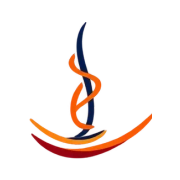
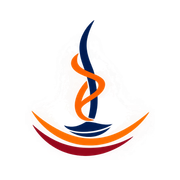
Use the supplied flame for every app mark
I had rejected the file the user sent and cut a flame out of the Sangam
lockup instead, on the grounds that the supplied one carried background-
removal residue. That was wrong. What looked like a halo was its
semi-transparent edge showing against the black the preview rendered it on;
measured, 99.1% of its opaque pixels are fully saturated artwork.

It also matters which one is used. The lockup's flame is thin line art drawn
to sit beside a wordmark at about 60px tall. Isolated in a square icon its
strokes read as an abstract squiggle — a "Y" with an underline, which is
exactly what showed up in the install prompt. The supplied flame is a bolder
drawing and holds its shape as a lamp at 48px, which is the size that
decides whether an app icon works.

So all fourteen derived files are regenerated from it: 9 launch screens, the
three manifest icons, the favicon and the apple touch icon. Checked by
rendering the result down to 48, 72 and 96px and applying the circle crop
Android may use, rather than trusting the fractions.

The matte is still cleaned before use, but only where it cannot touch the
drawing: a pixel is cleared when it is both nearly transparent and
unsaturated, which the artwork's own antialiased edges never are. That keeps
it safe on a dark ground as well as the white it sits on here.

iitm-crest.webp goes — it was an alternative I rendered while working out why
the icon was unreadable, and it is not the one chosen. flame.webp stays as
[…]

Changed region(s): [[0.1667, 0.1111, 0.8611, 0.8889]]

diff --git a/public/sw.js b/public/sw.js
@@ -10,7 +10,7 @@
  *
  * v2 caches static files only, and never stands between the app and a page.
  */
-const CACHE_VERSION = "sangam-v10";
+const CACHE_VERSION = "sangam-v11";
 const CACHE_NAME = `${CACHE_VERSION}-static`;
 const PRECACHE_URLS = ["/manifest.json", "/icons/icon-192.png", "/icons/icon-512.png"];
 
